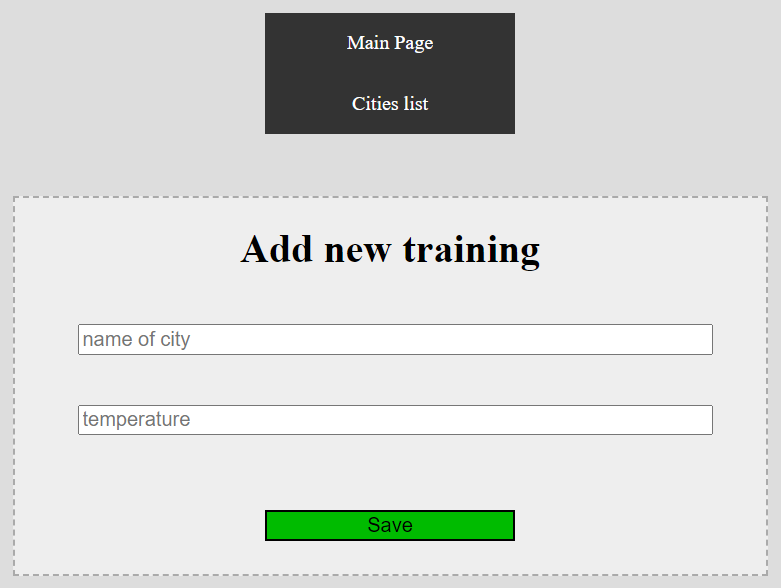
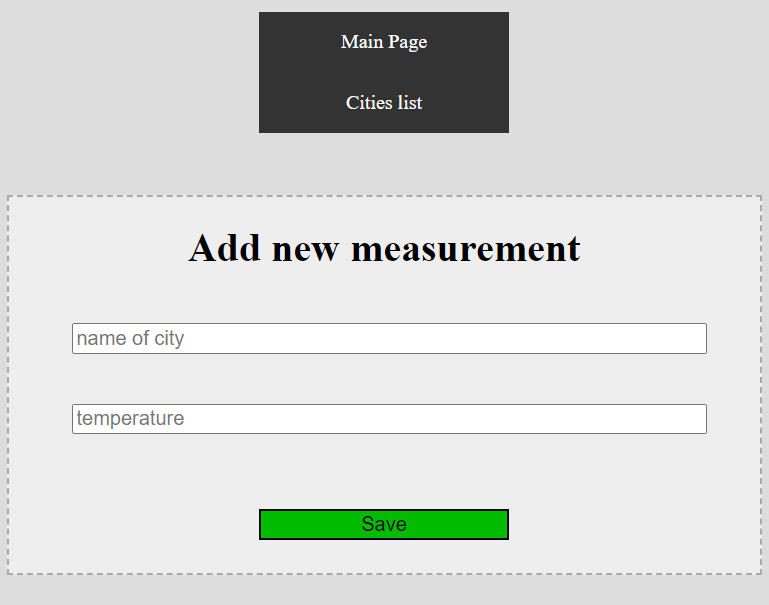
edit readme file

diff --git a/src/main/resources/templates/saveMeasurement.html b/src/main/resources/templates/saveMeasurement.html
@@ -13,7 +13,7 @@
         <div style="clear: both;"></div>
     </div>
     <div id="form-container">
-        <h1>Add new training</h1>
+        <h1>Add new measurement</h1>
         <form method="post" th:action="@{/saveMeasurement}" th:object="${measurement}">
             <input type="hidden" th:field="*{id}">
             <input type="text" placeholder="name of city" th:field="*{city}">

diff --git a/readme.md b/readme.md
@@ -5,10 +5,10 @@ The simple small app, which allows users to record their measurements of tempera
 
 ## Screenshots
 
-### Form add training
+### Form add measurement
 ![form add measurement](./img/formAdd.png)
 
-### Trainings list
+### Measurements list
 ![temperatures table](./img/table.png)
 
 ## Technologies Used
